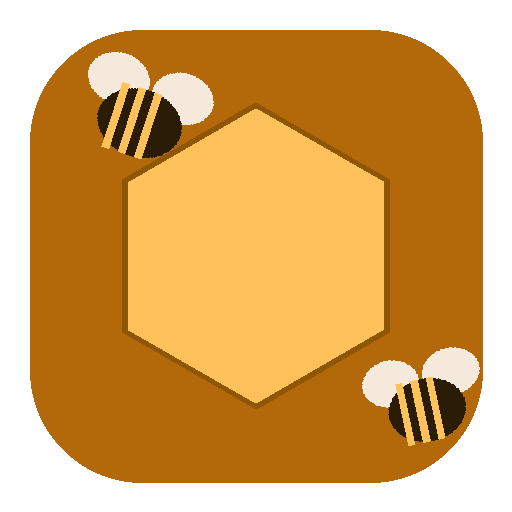
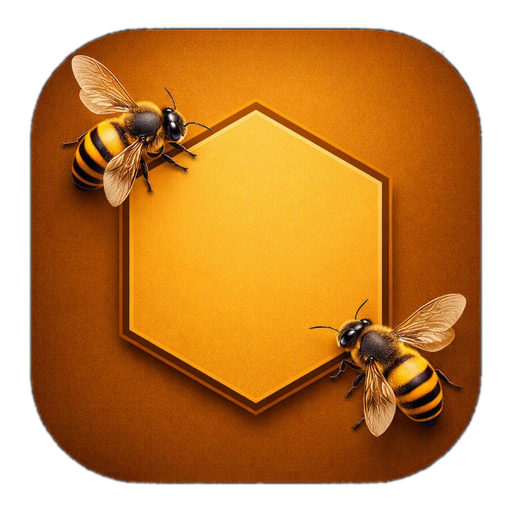
feat: v1.1 - set icone e splash screen animato
Icona ufficiale integrata con angoli arrotondati trasparenti, varianti
maskable per Android, apple-touch-icon per iOS e favicon multi-formato.
Aggiunto Splash Screen animato all'avvio (min 3s) con dati autore fissi
sotto l'icona. Service Worker aggiornato alla cache v1.1.

diff --git a/style.css b/style.css
@@ -303,3 +303,63 @@ input:focus, select:focus, textarea:focus { outline:2px solid var(--primary-l); 
 @media (min-width:640px) {
   .fab { right:calc(50% - 300px); }
 }
+
+/* ============================================================
+   Splash Screen
+   ============================================================ */
+#splashScreen {
+  position:fixed; inset:0; z-index:9999;
+  background:radial-gradient(circle at 50% 30%, var(--primary-l) 0%, var(--primary) 45%, var(--primary-d) 100%);
+  display:flex; flex-direction:column; align-items:center; justify-content:center; gap:16px;
+  padding:24px; text-align:center;
+  transition:opacity .55s ease, visibility .55s ease;
+}
+#splashScreen.hide { opacity:0; visibility:hidden; pointer-events:none; }
+
+.splash-icon-wrap {
+  width:132px; height:132px; border-radius:30px; overflow:hidden;
+  box-shadow:0 14px 44px rgba(43,28,5,.45);
+  animation:splashPop .85s cubic-bezier(.34,1.56,.64,1) both,
+            splashGlow 2.2s ease-in-out .85s infinite;
+}
+.splash-icon-wrap img { width:100%; height:100%; object-fit:cover; display:block; }
+
+@keyframes splashPop {
+  0%   { transform:scale(.25) rotate(-18deg); opacity:0; }
+  55%  { transform:scale(1.10) rotate(5deg);  opacity:1; }
+  80%  { transform:scale(.96) rotate(-2deg); }
+  100% { transform:scale(1) rotate(0deg); opacity:1; }
+}
+@keyframes splashGlow {
+  0%,100% { box-shadow:0 14px 44px rgba(43,28,5,.45); }
+  50%     { box-shadow:0 14px 60px rgba(255,224,160,.55); }
+}
+
+.splash-title {
+  font-size:27px; font-weight:900; color:#fff; letter-spacing:.3px;
+  text-shadow:0 2px 10px rgba(0,0,0,.25);
+  opacity:0; animation:splashFadeUp .6s ease .55s both;
+}
+.splash-sub {
+  font-size:13.5px; font-weight:700; color:rgba(255,255,255,.92); max-width:280px; line-height:1.4;
+  opacity:0; animation:splashFadeUp .6s ease .75s both;
+}
+.splash-loader {
+  width:30px; height:30px; margin-top:4px;
+  border:3px solid rgba(255,255,255,.32); border-top-color:#fff; border-radius:50%;
+  opacity:0;
+  animation:splashSpin .85s linear infinite, splashFadeUp .5s ease .95s both;
+}
+@keyframes splashSpin { to { transform:rotate(360deg); } }
+@keyframes splashFadeUp { from{opacity:0; transform:translateY(10px);} to{opacity:1; transform:translateY(0);} }
+
+.splash-author {
+  position:absolute; left:0; right:0; bottom:36px;
+  display:flex; flex-direction:column; gap:3px; align-items:center;
+  opacity:0; animation:splashFadeUp .6s ease 1.15s both;
+  padding:0 20px;
+}
+.splash-author-name { font-size:13.5px; font-weight:800; color:#fff; }
+.splash-ver { font-size:10.5px; font-weight:800; background:rgba(255,255,255,.22); padding:1px 7px; border-radius:20px; margin-left:5px; vertical-align:middle; }
+.splash-author-web { font-size:12px; font-weight:600; color:rgba(255,255,255,.85); }
+.splash-author-copy { font-size:10.5px; color:rgba(255,255,255,.65); margin-top:4px; }

diff --git a/index.html b/index.html
@@ -33,14 +33,29 @@
 <meta name="description" content="Apiari — gestione di apiari, famiglie e visite apistiche, offline e senza account."/>
 <title>Apiari</title>
 <link rel="manifest" href="manifest.json"/>
-<link rel="icon" href="assets/icon-192.png"/>
-<link rel="apple-touch-icon" href="assets/icon-192.png"/>
+<link rel="icon" type="image/x-icon" href="assets/favicon.ico"/>
+<link rel="icon" type="image/png" sizes="32x32" href="assets/favicon-32.png"/>
+<link rel="icon" type="image/png" sizes="16x16" href="assets/favicon-16.png"/>
+<link rel="apple-touch-icon" sizes="180x180" href="assets/apple-touch-icon.png"/>
 <link rel="preconnect" href="https://fonts.googleapis.com">
 <link rel="preconnect" href="https://fonts.gstatic.com" crossorigin>
 <link href="https://fonts.googleapis.com/css2?family=Nunito:wght@400;600;700;800;900&display=swap" rel="stylesheet">
 <link rel="stylesheet" href="style.css"/>
 </head>
 <body>
+
+<!-- Splash Screen -->
+<div id="splashScreen" role="status" aria-label="Caricamento Apiari">
+  <div class="splash-icon-wrap"><img src="assets/icon-512.png" alt="Apiari" width="140" height="140"></div>
+  <div class="splash-title">🐝 Apiari</div>
+  <div class="splash-sub">Gestione apiari, famiglie e visite apistiche</div>
+  <div class="splash-loader" aria-hidden="true"></div>
+  <div class="splash-author">
+    <div class="splash-author-name">Lazzaro Serva <span class="splash-ver">v1.1</span></div>
+    <div class="splash-author-web">www.graficaesiti.it</div>
+    <div class="splash-author-copy">© 2026 Lazzaro Serva - Centola · Tutti i diritti riservati</div>
+  </div>
+</div>
 
 <!-- Banner aggiornamento -->
 <div id="updateBanner" role="status" aria-live="polite">

diff --git a/app.js b/app.js
@@ -6,6 +6,22 @@
 // Tutti i diritti riservati – All rights reserved.
 // ============================================================
 
+// ---------------------------------------------------------------
+// Splash Screen — durata minima 3.2s, poi dissolvenza
+// ---------------------------------------------------------------
+const SPLASH_MIN_MS = 3200;
+const __splashStart = Date.now();
+function hideSplash() {
+  const elapsed = Date.now() - __splashStart;
+  const wait = Math.max(0, SPLASH_MIN_MS - elapsed);
+  setTimeout(() => {
+    const el = document.getElementById('splashScreen');
+    if (!el) return;
+    el.classList.add('hide');
+    setTimeout(() => el.remove(), 650);
+  }, wait);
+}
+
 const STORAGE_KEY = 'apiari_data_v1';
 
 let apiari = [];
@@ -943,6 +959,7 @@ function init() {
   refreshApiarioSelects();
   document.querySelectorAll('.dict-btn').forEach(setupDictation);
   renderDashboard();
+  hideSplash();
 }
 init();
 

diff --git a/service-worker.js b/service-worker.js
@@ -6,7 +6,7 @@
 // Tutti i diritti riservati – All rights reserved.
 // ============================================================
 
-const CACHE_NAME = 'apiari-v1.0';
+const CACHE_NAME = 'apiari-v1.1';
 const ASSETS = [
   './',
   './index.html',
@@ -14,7 +14,13 @@ const ASSETS = [
   './app.js',
   './manifest.json',
   './assets/icon-192.png',
-  './assets/icon-512.png'
+  './assets/icon-512.png',
+  './assets/icon-192-maskable.png',
+  './assets/icon-512-maskable.png',
+  './assets/apple-touch-icon.png',
+  './assets/favicon.ico',
+  './assets/favicon-32.png',
+  './assets/favicon-16.png'
 ];
 
 // ── Installazione: NON chiamare skipWaiting() qui. ──

diff --git a/README.md b/README.md
@@ -5,7 +5,7 @@ Offline-first, nessun account, nessun server: tutti i dati restano sul dispositi
 
 | | |
 |---|---|
-| **Versione** | 1.0 |
+| **Versione** | 1.1 |
 | **Autore** | Lazzaro Serva — [www.graficaesiti.it](http://www.graficaesiti.it/) |
 | **Licenza** | Tutti i diritti riservati (vedi `LICENSE`) |
 | **Tecnologie** | HTML5 · CSS3 · JavaScript vanilla · PWA offline-first |
@@ -33,8 +33,14 @@ apiari/
 ├── manifest.json           ← configurazione PWA
 ├── service-worker.js       ← cache offline + aggiornamenti
 ├── assets/
-│   ├── icon-192.png
-│   └── icon-512.png
+│   ├── icon-192.png              (any, angoli trasparenti)
+│   ├── icon-512.png               (any, angoli trasparenti)
+│   ├── icon-192-maskable.png      (maskable, full-bleed)
+│   ├── icon-512-maskable.png      (maskable, full-bleed)
+│   ├── apple-touch-icon.png       (180×180, iOS)
+│   ├── favicon.ico
+│   ├── favicon-32.png
+│   └── favicon-16.png
 ├── LICENSE
 ├── AUTHORS
 ├── README.md
